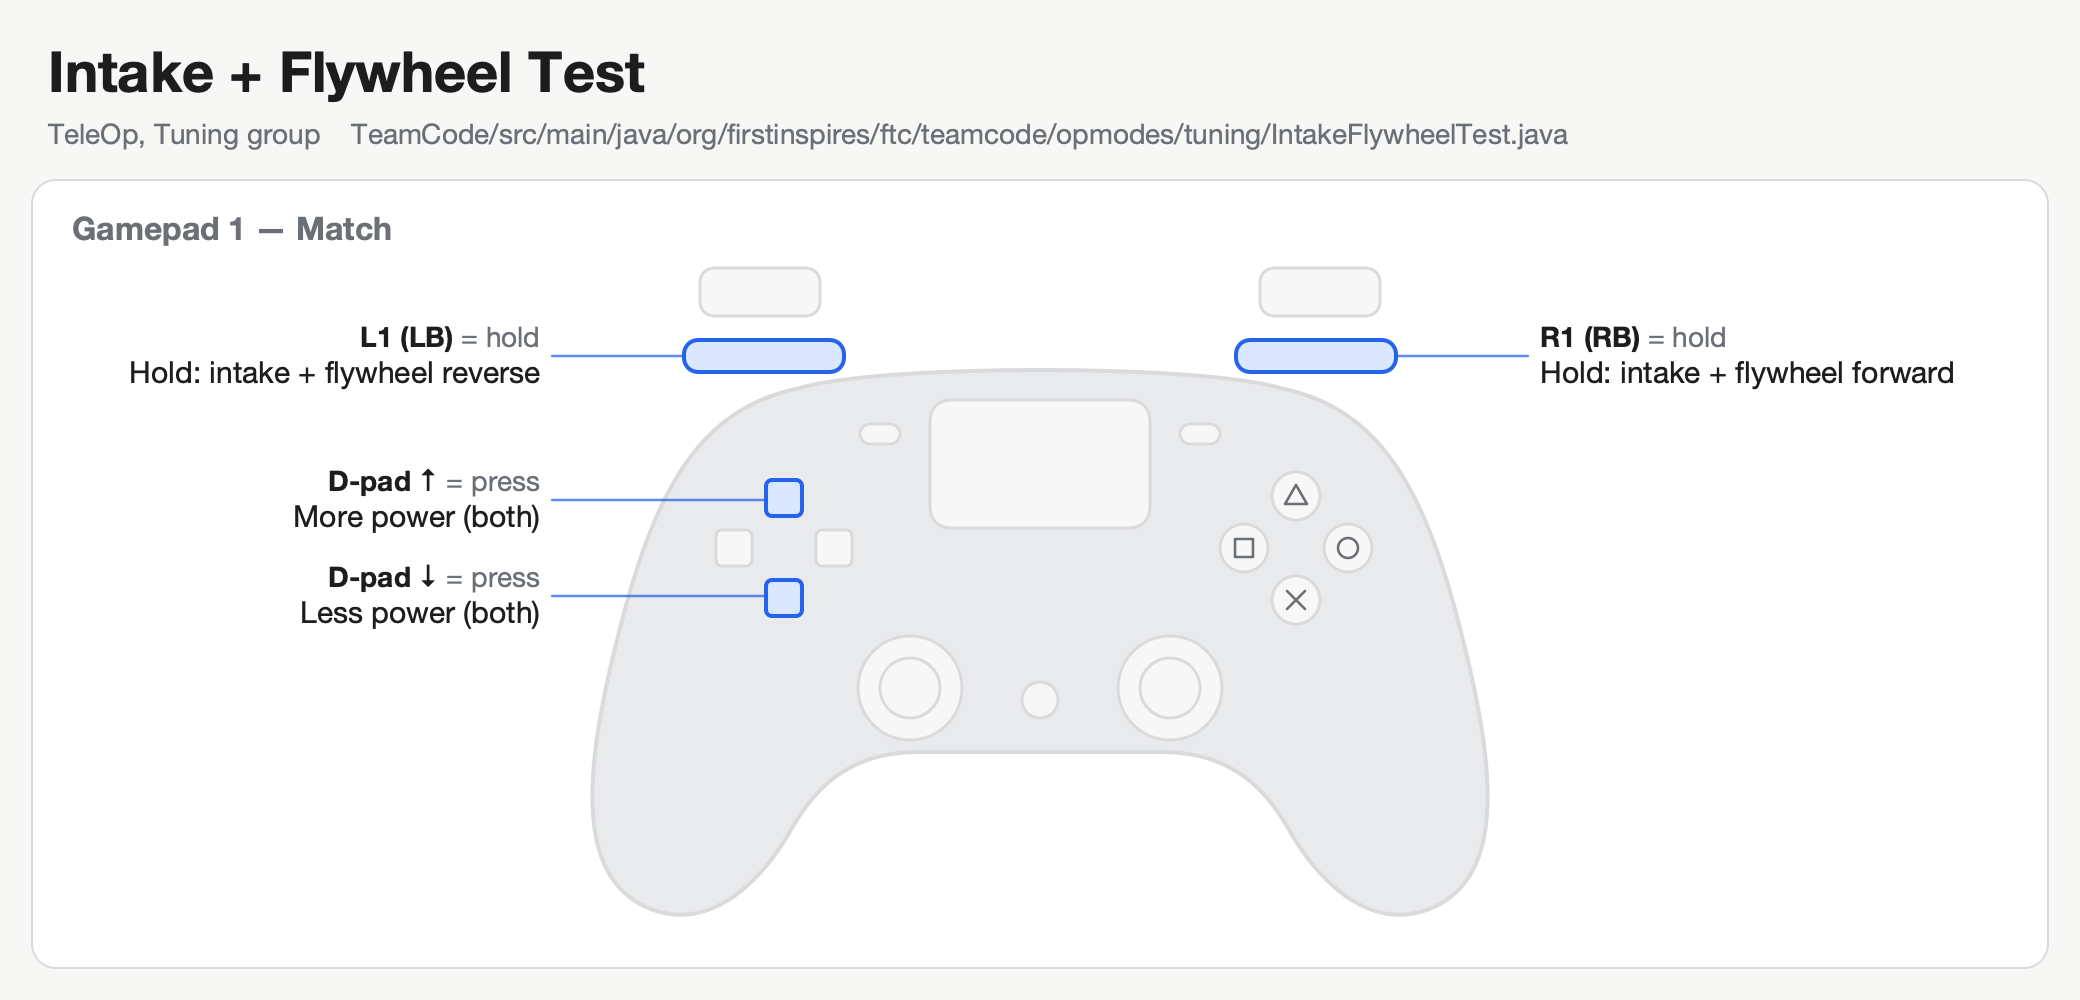
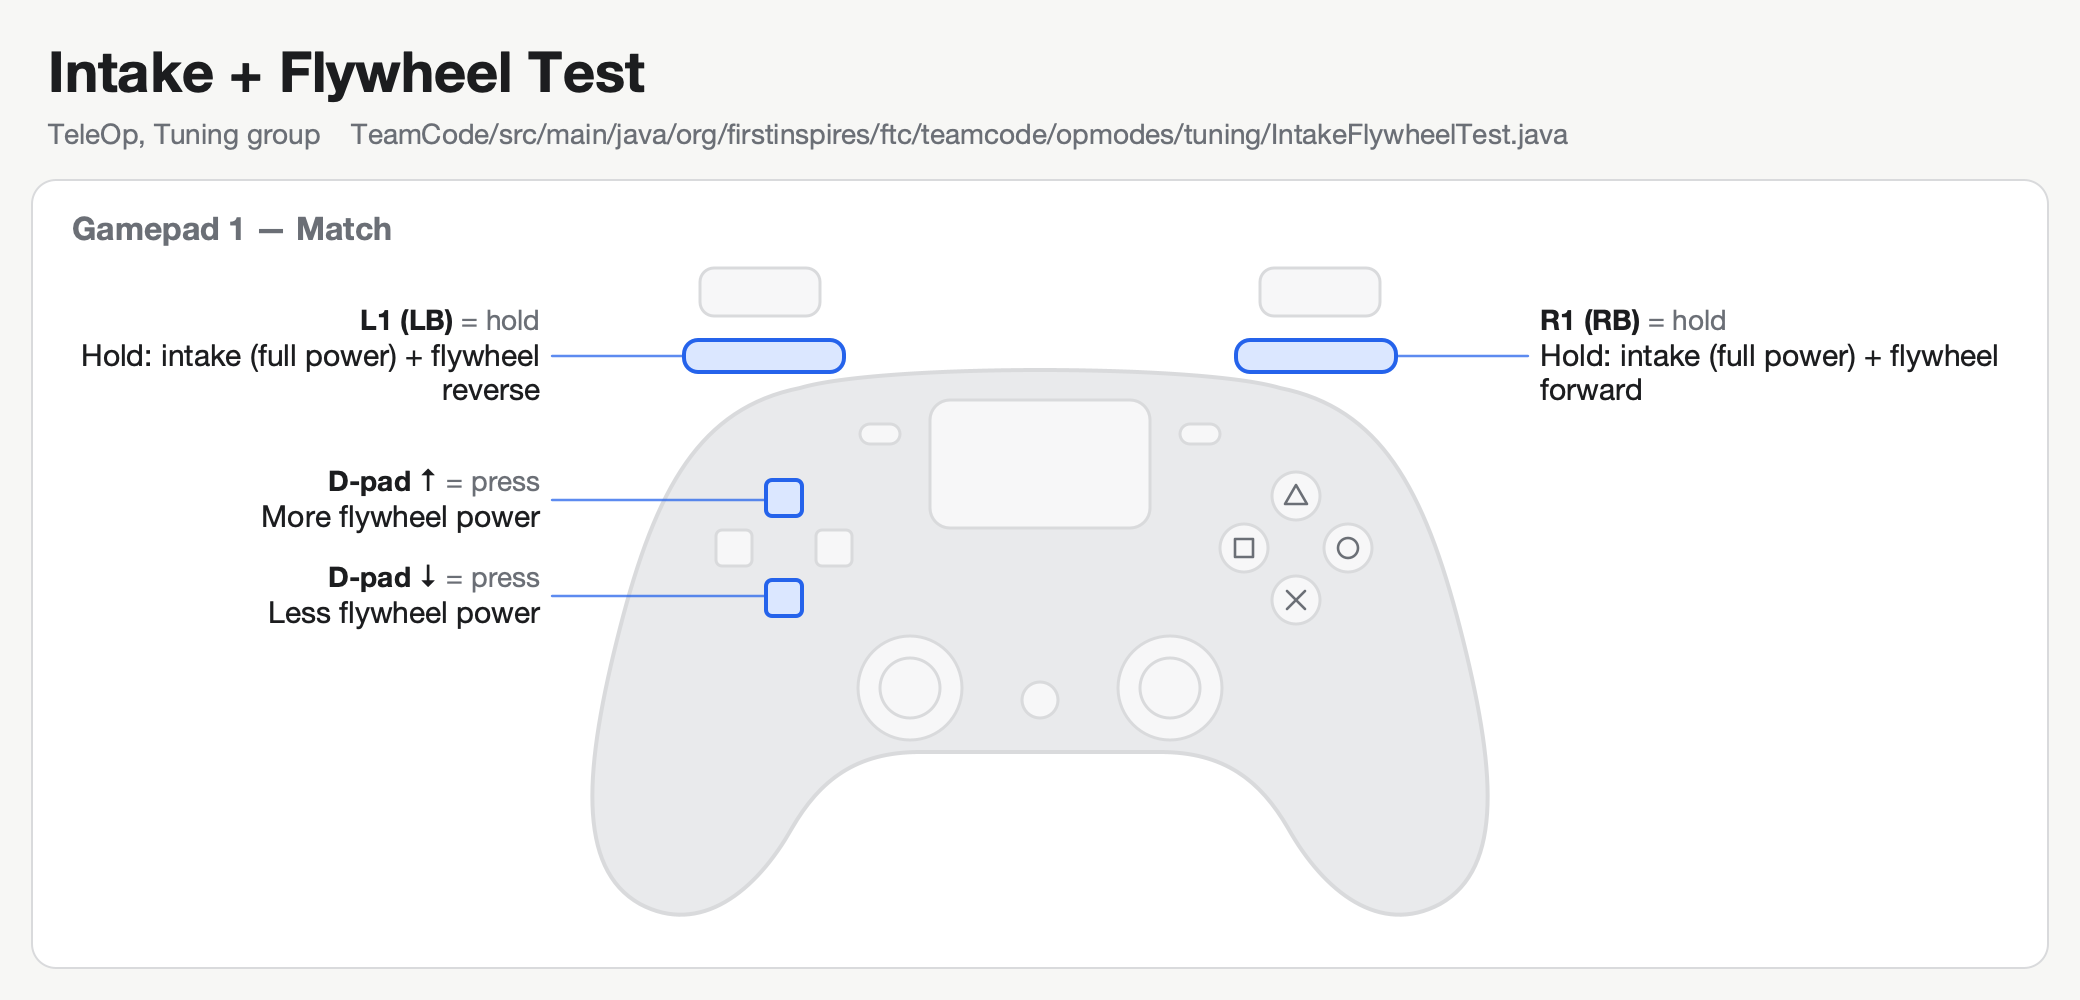
full power intake flywheel test

diff --git a/TeamCode/src/main/java/org/firstinspires/ftc/teamcode/opmodes/tuning/IntakeFlywheelTest.java b/TeamCode/src/main/java/org/firstinspires/ftc/teamcode/opmodes/tuning/IntakeFlywheelTest.java
@@ -14,9 +14,10 @@ import org.firstinspires.ftc.robotcore.external.navigation.CurrentUnit;
 import org.firstinspires.ftc.teamcode.core.RobotConstants;
 
 /**
- * Temporary: spin the intake and the flywheel together at one power, like the Motor Tester but for both at once.
- * Gamepad 1: hold RB = both forward, hold LB = both reverse, let go = stop. D-pad up / down = power up / down by
- * powerStep. Power is also editable under Configurables > IntakeFlywheelTest.
+ * Temporary: spin the intake and the flywheel together, like the Motor Tester but for both at once. The intake always
+ * runs at full power; the flywheel runs at the power setting.
+ * Gamepad 1: hold RB = both forward, hold LB = both reverse, let go = stop. D-pad up / down = flywheel power up / down
+ * by powerStep. Power is also editable under Configurables > IntakeFlywheelTest.
  *
  * <p>Raw power (no flywheel PIDF), with each motor's direction from RobotConstants so forward = intake in / shoot.
  * Both coast when stopped, like their subsystems. A motor missing from the config is skipped.
@@ -55,24 +56,25 @@ public class IntakeFlywheelTest extends OpMode {
         if (gamepad1.dpadDownWasPressed()) power -= powerStep;
         power = Range.clip(power, 0, 1);
 
-        double output = 0;
-        if (gamepad1.right_bumper) output = power;
-        else if (gamepad1.left_bumper) output = -power;
-        setPower(output);
+        double direction = 0;
+        if (gamepad1.right_bumper) direction = 1;
+        else if (gamepad1.left_bumper) direction = -1;
+        setPower(direction);
 
         panels.addLine("== INTAKE + FLYWHEEL TEST (gamepad 1) ==");
         panels.addLine("Hold RB: both forward   Hold LB: both reverse");
-        panels.addLine("D-pad UP / DOWN: more / less power");
+        panels.addLine("D-pad UP / DOWN: more / less flywheel power");
         panels.addLine("");
-        panels.addData("Power setting", String.format("%.2f", power));
+        panels.addData("Flywheel power setting", String.format("%.2f", power));
         show("Intake", RobotConstants.Intake.MOTOR_NAME, intake);
         show("Flywheel", RobotConstants.Launcher.FLYWHEEL_MOTOR_NAME, flywheel);
         panels.update(telemetry);
     }
 
-    private void setPower(double output) {
-        if (intake != null) intake.setPower(output);
-        if (flywheel != null) flywheel.setPower(output);
+    /** @param direction 1 forward, -1 reverse, 0 stop */
+    private void setPower(double direction) {
+        if (intake != null) intake.setPower(direction);
+        if (flywheel != null) flywheel.setPower(direction * power);
     }
 
     private void show(String label, String name, DcMotorEx motor) {
